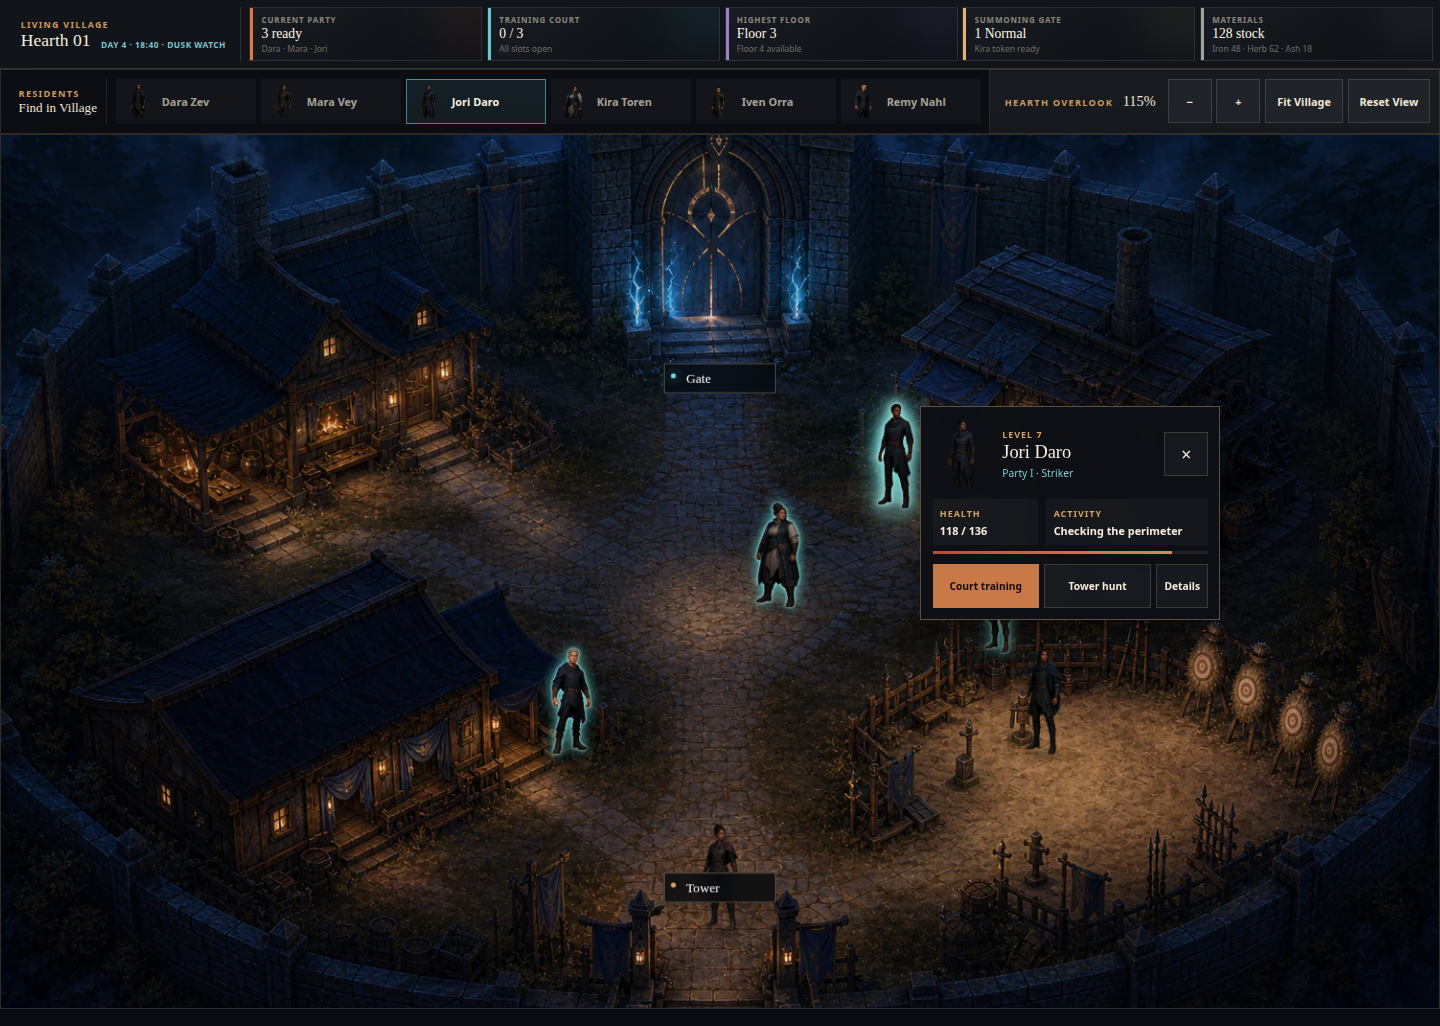
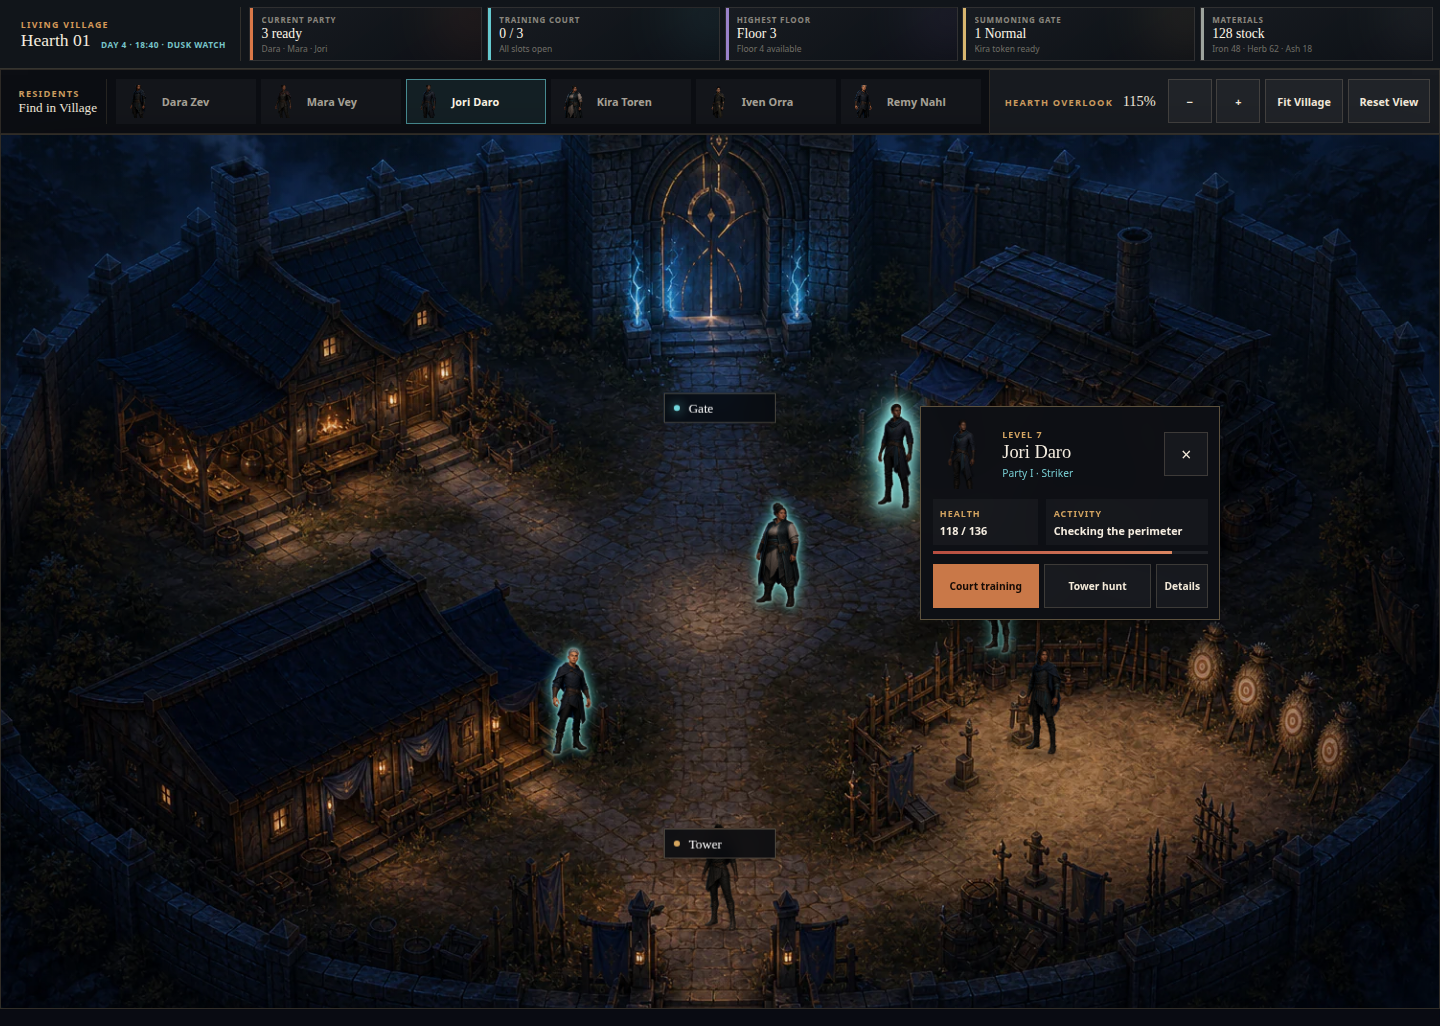
fix: refine Village hotspot bounds

Changed region(s): [[0.4375, 0.8109, 0.5625, 0.9045], [0.4375, 0.3431, 0.5312, 0.4366]]

diff --git a/apps/web/src/routes/living-village-lab/village/village.e2e.ts b/apps/web/src/routes/living-village-lab/village/village.e2e.ts
@@ -65,6 +65,13 @@ test('unifies Village hotspots, resident inspection, orders, and camera controls
 
 	const courtHotspot = page.getByRole('button', { name: 'Inspect Training Grounds' });
 	const towerHotspot = page.getByRole('button', { name: 'Inspect Tower Threshold' });
+	for (const hotspot of [gateHotspot, courtHotspot, towerHotspot]) {
+		const dotBounds = await hotspot.locator('i').boundingBox();
+		const textBounds = await hotspot.locator('strong').boundingBox();
+		expect(
+			Math.abs(dotBounds!.y + dotBounds!.height / 2 - (textBounds!.y + textBounds!.height / 2))
+		).toBeLessThan(1);
+	}
 	for (const hotspot of [courtHotspot, towerHotspot]) {
 		const hotspotBounds = await hotspot.boundingBox();
 		const labelBounds = await hotspot.locator('span').boundingBox();
@@ -76,6 +83,9 @@ test('unifies Village hotspots, resident inspection, orders, and camera controls
 		expect(Math.abs(labelBounds!.y + labelBounds!.height / 2 - hotspotBounds!.y)).toBeLessThan(2);
 	}
 	const gateBounds = await gateHotspot.boundingBox();
+	const towerBounds = await towerHotspot.boundingBox();
+	expect(gateBounds!.height).toBeGreaterThan(towerBounds!.height);
+	expect(towerBounds!.height).toBeGreaterThan(180);
 	const gateLabelBounds = await gateHotspot.locator('span').boundingBox();
 	expect(
 		Math.abs(

diff --git a/apps/web/src/routes/living-village-lab/village/fixtures.ts b/apps/web/src/routes/living-village-lab/village/fixtures.ts
@@ -27,7 +27,7 @@ export const facilities = [
 		detail: 'Kira Toren is bound to the Floor 3 token.',
 		href: '/forge',
 		position: { x: 0.5, y: 0.18 },
-		bounds: { x: 0.385, y: 0.055, width: 0.23, height: 0.25 }
+		bounds: { x: 0.385, y: 0.03, width: 0.23, height: 0.305 }
 	},
 	{
 		id: 'court',
@@ -47,7 +47,7 @@ export const facilities = [
 		action: 'Send a resident on a species hunt',
 		detail: 'Known Floor 4 signs: moss goblins, stoneback boars, and ash wisps.',
 		position: { x: 0.5, y: 0.9 },
-		bounds: { x: 0.385, y: 0.82, width: 0.23, height: 0.18 }
+		bounds: { x: 0.385, y: 0.775, width: 0.23, height: 0.235 }
 	}
 ] as const satisfies readonly VillageFacility[];
 

diff --git a/apps/web/src/lib/components/living-village/village/VillageViewport.svelte b/apps/web/src/lib/components/living-village/village/VillageViewport.svelte
@@ -769,7 +769,9 @@
 		z-index: 30;
 		left: 50%;
 		top: 0;
-		display: grid;
+		display: flex;
+		align-items: center;
+		gap: 0.55rem;
 		min-width: 7rem;
 		padding: 0.48rem 0.58rem;
 		border: 1px solid rgba(239, 221, 187, 0.28);
@@ -788,9 +790,8 @@
 	}
 
 	.facility-hotspot i {
-		position: absolute;
-		left: 0.35rem;
-		top: 0.55rem;
+		position: static;
+		flex: 0 0 auto;
 		width: 0.35rem;
 		height: 0.35rem;
 		border-radius: 50%;
@@ -803,7 +804,7 @@
 	}
 
 	.facility-hotspot strong {
-		padding-left: 0.75rem;
+		padding-left: 0;
 		text-align: left;
 	}
 

diff --git a/docs/evidence/living-village-village-validation.md b/docs/evidence/living-village-village-validation.md
@@ -27,7 +27,8 @@ compact find/focus ribbon. No separate roster route was created.
   and collapse into two shallow rows on phone.
 - Existing Hearth environment with named Gate, Court, and Tower hotspots. Training Grounds and
   Tower labels straddle the middle of their top borders; the Gate label straddles the middle of its
-  bottom border to preserve the gate artwork.
+  bottom border to preserve the gate artwork. Gate and Tower use taller interaction regions that
+  push those label-bearing edges away from their focal architecture.
 - Bounded 100–300% camera with pointer drag from the map, heroes, or facility regions; wheel zoom;
   two-pointer pinch; keyboard zoom/pan; visible zoom controls; Fit; and Reset. A small drag allowance
   remains available at fitted zoom so the camera never feels inert.
@@ -67,8 +68,9 @@ pnpm --filter @summonlab/web exec playwright test \
 ```
 
 Result: **2 passed**. The test proves direct static loading, no `/api/` requests, the natural
-1536×1024 Hearth asset, top-border Court/Tower labels, bottom-border Gate label, six true-alpha
-in-world figures with bounded progressive zoom scaling, absence of the destination
+1536×1024 Hearth asset, enlarged Gate/Tower regions, top-border Court/Tower labels, bottom-border
+Gate label, vertically centered facility status dots, six true-alpha in-world figures with bounded
+progressive zoom scaling, absence of the destination
 panel/resident-count/camera-help annotations, in-world hero selection, ribbon
 focus, anchored popover, details drawer, availability light removal after Court assignment, Court
 training and species hunt popover dismissal, pointer pan beginning inside a facility region at
@@ -150,6 +152,11 @@ their regions' top borders and moved the Gate label to the middle of its bottom 
 rejected fixed-pixel hero sizing during camera zoom because the residents appeared to shrink
 against the enlarged map. Hero figures now grow progressively through the zoom range, with a 1.75×
 cap that preserves readable residents without allowing them to dominate the world.
+
+The latest hotspot review expanded both vertical bounds of the Gate and Tower regions so their
+labels sit farther from the gate face and tower threshold art. All three facility labels now use a
+shared flex row whose status dot and text are geometrically center-aligned instead of relying on
+hand-tuned absolute offsets.
 
 ## Useful review actions
 
